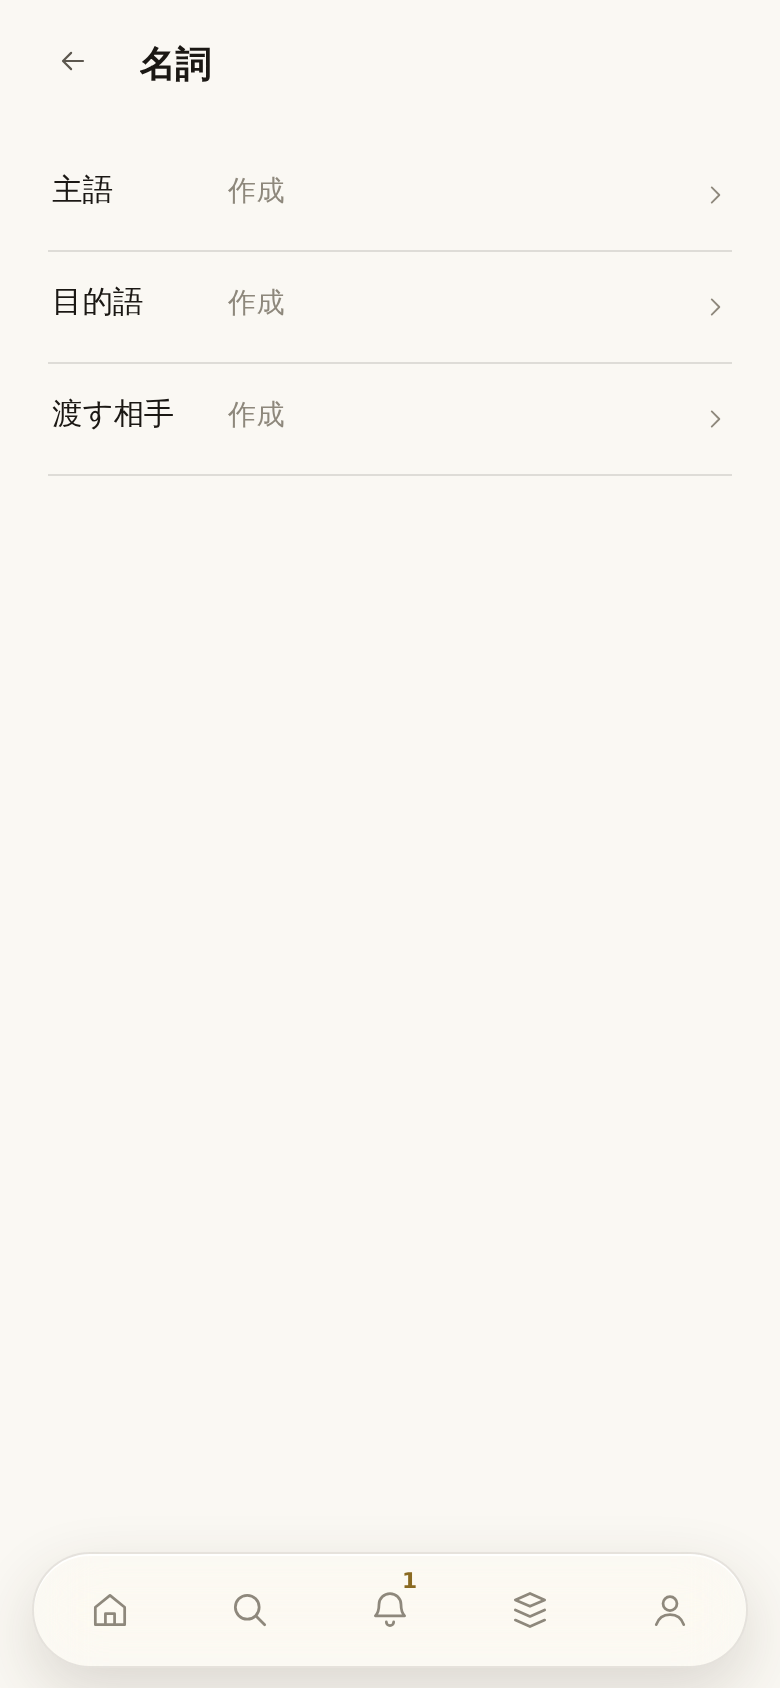
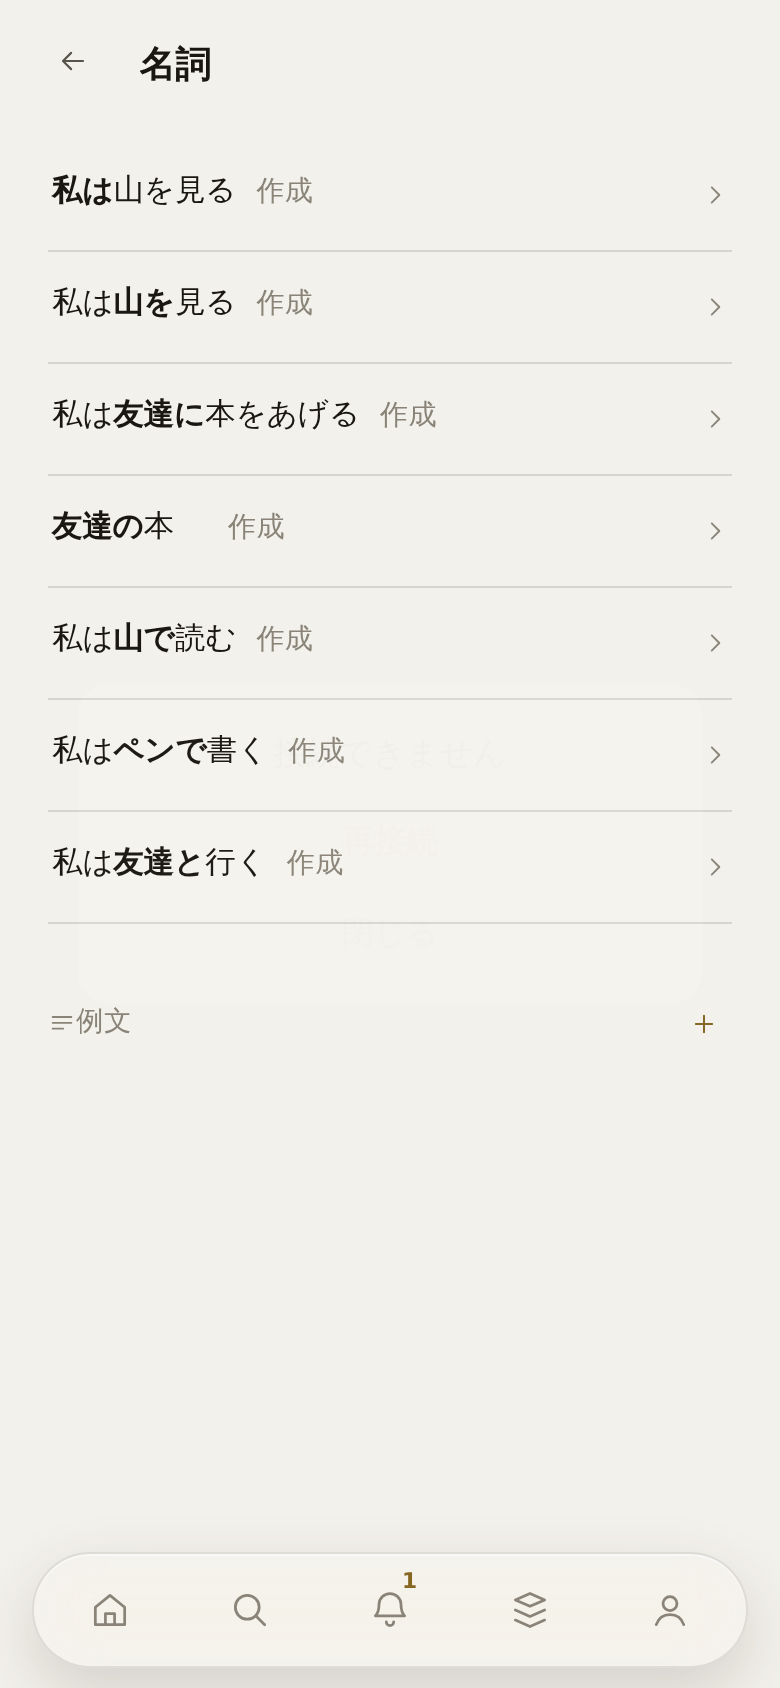
格が七つになった ── 所有・場所・道具・共同
「主語・目的語・渡す相手 に加えて 所有（〜の）・場所（〜で／に）・道具（〜で）・
共同（〜と）」 オーナー決定 2026-09-07。

最初の三つは語順が決められたもの。あとの四つは語順には決して決められない。
所有がそれを証している ── 持ち主は名詞句の中の語なので、文をどう並べても
「どの名詞がどの名詞のものか」は言えない。

助詞の章の枠を三つから七つに。GCASE は役割の名前をそのまま値にする（主語は
NOMINATIVE ではなく SUBJECT）ので、morphology の CASE_ROLE に行を足す必要は
ない ── 知らない値はその名の役割として読まれる。

名詞の章の行は例文のまま（「友達の本」「私は山で読む」）。文法用語は一つも
出てこない。

エンジン: 名詞句の中の部品も、その言語がその部品に印を持っていれば印を着けて
出る。持たない言語は板の並びだけで並ぶ。

grammar-engine-check: 七つの印が着くこと、所有だけは句の中で着くこと、
どちら側に立つかは名詞句の板が決めること、印を持たない言語で裸のまま並ぶこと、
読む側でも七つの役割が返ること。所有の印を落とす版を戻して赤くなるのを見た。

保存されるもの: 助詞の枠が 3 → 7。docs/CHANGELOG.md 2026-09-07。

Claude-Session: https://claude.ai/code/session_01BmhjpHm8VreY8ovbQ3unLG

diff --git a/www/grammar-engine/translate.js b/www/grammar-engine/translate.js
@@ -496,8 +496,8 @@
      list is what somebody meant. A meaning this language has no word for is a
      gap here exactly as it is for a head -- it stays as the meaning, and the
      gap is the door to making that word. */
-  function modWords(model, v, gaps, depth){
-    var out=[], list, i, found;
+  function modWords(model, v, gaps, depth, part){
+    var out=[], list, i, found, cv, marked;
     /* HOW DEEP IN is read here as well as passed in, and that is not belt and
        braces: a caller that forgot the argument made `depth < CLAUSE_DEEP`
        compare undefined, which is false, and every relative clause was
@@ -517,8 +517,18 @@
         continue;
       }
       found=lexFind(model, list[i]);
-      if(found.length) out.push(String(found[0].lemma||''));
-      else { gaps.push(String(list[i])); out.push(String(list[i])); }
+      if(!found.length){ gaps.push(String(list[i])); out.push(String(list[i])); continue; }
+      /* A PART OF A PHRASE MAY CARRY THIS LANGUAGE'S MARK FOR IT. 「所有（〜の）」
+         is a mark on the possessor exactly as 「〜が」 is one on the subject,
+         and it is asked for by the same function -- caseFor() -- so a language
+         that writes one writes it here and a language that does not is
+         arranged by its noun-phrase board alone. Nothing else in a phrase has
+         a mark today; asking for all of them costs one lookup and means the
+         day 「どんな」 gets one, it is already written. */
+      cv=part? caseFor(model, part) : null;
+      if(cv===null){ out.push(String(found[0].lemma||'')); continue; }
+      marked={}; marked.CASE=cv;
+      out.push(api.morphology.inflect(model, found[0], marked).surface);
     }
     return out;
   }
@@ -533,16 +543,16 @@
     if(order.length){
       for(i=0;i<order.length;i++){ part=order[i]; said[part]=1;
         if(part==='NOUN') out.push(headSurface);
-        else out=out.concat(modWords(model, mods[part], gaps, depth));
+        else out=out.concat(modWords(model, mods[part], gaps, depth, part));
       }
       if(!said.NOUN) out.push(headSurface);
-      for(i=0;i<NP_PARTS.length;i++) if(!said[NP_PARTS[i]]) out=out.concat(modWords(model, mods[NP_PARTS[i]], gaps, depth));
+      for(i=0;i<NP_PARTS.length;i++) if(!said[NP_PARTS[i]]) out=out.concat(modWords(model, mods[NP_PARTS[i]], gaps, depth, NP_PARTS[i]));
       return out;
     }
-    out=(positionOf(model,'ADJECTIVE')==='before')? modWords(model, mods.ADJECTIVE, gaps, depth) : [];
+    out=(positionOf(model,'ADJECTIVE')==='before')? modWords(model, mods.ADJECTIVE, gaps, depth, 'ADJECTIVE') : [];
     out.push(headSurface);
-    if(positionOf(model,'ADJECTIVE')!=='before') out=out.concat(modWords(model, mods.ADJECTIVE, gaps, depth));
-    for(i=0;i<NP_PARTS.length;i++) if(NP_PARTS[i]!=='ADJECTIVE') out=out.concat(modWords(model, mods[NP_PARTS[i]], gaps, depth));
+    if(positionOf(model,'ADJECTIVE')!=='before') out=out.concat(modWords(model, mods.ADJECTIVE, gaps, depth, 'ADJECTIVE'));
+    for(i=0;i<NP_PARTS.length;i++) if(NP_PARTS[i]!=='ADJECTIVE') out=out.concat(modWords(model, mods[NP_PARTS[i]], gaps, depth, NP_PARTS[i]));
     return out;
   }
 

diff --git a/www/phases.js b/www/phases.js
@@ -283,7 +283,7 @@ var STAGES=[
      pressed a row at the foot -- 「助詞は最初から出せ」 OWNER 2026-09-01, so
      it is a stage like the rest. A language with no particles leaves it empty,
      which is what an unanswered stage already is everywhere else. */
-  {id:'part',  slots:['subj','obj','rec'], pos:'part'},
+  {id:'part',  slots:['subj','obj','rec','poss','loc','inst','com'], pos:'part'},
   {id:'when',  slots:['now','before','after','today','tomorrow','yesterday'], pos:'x'},
   /* The calendar, and its slots come from two numbers the way counting's come
      from the base. www/cal.js says why there is no arithmetic of anybody's
@@ -355,11 +355,23 @@ function chapSlotsHTML(chap){
    and nothing new is stored anywhere. gInfl() in www/grammar.js is what turns
    the word somebody made here into something the engine reads.
 
-   Three, and not the eight morphology.js knows: these are the ones WORD ORDER
-   would otherwise decide, and a mark is what takes a word out of that queue.
-   Where a thing IS and where it goes are the 場所 stage's adpositions and
-   already have somewhere to live -- two places saying the same thing is the
-   one shape this repository is most often bitten by. */
+   SEVEN NOW, AND NOT THREE. 「格 ── 主語・目的語・渡す相手 に加えて 所有（〜の）・
+   場所（〜で／に）・道具（〜で）・共同（〜と）」 OWNER 2026-09-07. The first
+   three are the ones WORD ORDER would otherwise decide; the four beside them
+   are the ones it never could, and a language that marks them had nowhere to
+   write them down. 「所有」 is the one that shows why: a possessor is a word
+   inside a noun phrase, so no arrangement of a sentence can say it.
+
+   THE PLACE MARK AND THE PLACE WORDS ARE NOT THE SAME THING. `loc` is a mark
+   ON the noun -- 山で, `house-LOC`, the third way §7 names -- and the 場所
+   chapter's `in` / `on` / `under` are separate WORDS standing beside it. A
+   language may have either, or both, and until today it could only have the
+   words: docs/BACKLOG.md carried exactly this hole and this is it filled.
+
+   Adding four is adding four slots. Nothing anybody made moves, and a
+   language that has answered the first three still has answered them -- the
+   count under 助詞 goes from three to seven because there are four more
+   questions, not because anything was lost. */
 /* A copy with its slots filled in, and a copy is the point: STAGES is one
    array shared by every call, so a stage edited in place stays edited. */
 function stWith(p, slots){

diff --git a/www/grammar.js b/www/grammar.js
@@ -255,7 +255,19 @@ function gRules(){
    are: `form` is the particle's SPELLING, read from the dictionary now. A
    stored copy would be the spelling as it was on the day it was saved, and
    would go quietly wrong the moment somebody redrew or renamed that word. */
-var GCASE={subj:'SUBJECT', obj:'OBJECT', rec:'RECIPIENT'};
+/* WHAT EACH MARK MEANS, and it is the ROLE it gives rather than the name a
+   grammar book would give the case. `subj` is SUBJECT and not NOMINATIVE
+   because that is what somebody making a language said: this word is the one
+   doing it. morphology.js's CASE_ROLE turns the traditional names into these
+   same roles, and takes a value it does not know as the role it names -- so
+   the two roads arrive at one answer and this table needs no row there.
+
+   Seven. The first three are what a word order could have decided; the four
+   after them are what it never could. POSSESSOR is the one that shows why:
+   it is a word inside a noun phrase, and no arrangement of a sentence says
+   which noun owns which. */
+var GCASE={subj:'SUBJECT', obj:'OBJECT', rec:'RECIPIENT',
+           poss:'POSSESSOR', loc:'PLACE', inst:'INSTRUMENT', com:'COMPANION'};
 function gInfl(){
   var e=LinguaGrammarEngine, out=[], p=(typeof stBy==='function')? stBy('part') : null, k, w, f;
   if(!p) return out;

diff --git a/www/i18n/ru.js b/www/i18n/ru.js
@@ -600,6 +600,14 @@ defLang('ru', (function(){
       "gram.eg.subj"       : "<b>Я</b> вижу гору",
       "gram.eg.obj"        : "Я вижу <b>гору</b>",
       "gram.eg.rec"        : "Я даю книгу <b>другу</b>",
+      "stg.part.poss"      : "чей",
+      "stg.part.loc"       : "где",
+      "stg.part.inst"      : "чем",
+      "stg.part.com"       : "вместе с",
+      "gram.eg.poss"       : "книга <b>моего друга</b>",
+      "gram.eg.loc"        : "я читаю <b>на горе</b>",
+      "gram.eg.inst"       : "я пишу <b>ручкой</b>",
+      "gram.eg.com"        : "я иду <b>с другом</b>",
       "stg.polite.t"       : "Вежливость",
       "stg.polite.d"       : "Как язык меняется в вежливости",
       "stg.where.t"        : "Место",

diff --git a/www/i18n/ko.js b/www/i18n/ko.js
@@ -775,6 +775,14 @@ defLang('ko', (function(){
       "gram.eg.subj"     : "<b>내가</b> 산을 본다",
       "gram.eg.obj"      : "나는 <b>산을</b> 본다",
       "gram.eg.rec"      : "나는 <b>친구에게</b> 책을 준다",
+      "stg.part.poss"    : "누구의",
+      "stg.part.loc"     : "어디",
+      "stg.part.inst"    : "무엇으로",
+      "stg.part.com"     : "함께",
+      "gram.eg.poss"     : "<b>친구의</b> 책",
+      "gram.eg.loc"      : "나는 <b>산에서</b> 읽는다",
+      "gram.eg.inst"     : "나는 <b>펜으로</b> 쓴다",
+      "gram.eg.com"      : "나는 <b>친구와</b> 간다",
       "stg.polite.t"     : "높임",
       "stg.polite.d"     : "공손할 때 말이 어떻게 달라지는지",
       "stg.where.t"      : "자리",

diff --git a/www/i18n/de.js b/www/i18n/de.js
@@ -584,6 +584,14 @@ defLang('de', (function(){
       "gram.eg.subj"     : "<b>Ich</b> sehe den Berg",
       "gram.eg.obj"      : "Ich sehe <b>den Berg</b>",
       "gram.eg.rec"      : "Ich gebe <b>meinem Freund</b> ein Buch",
+      "stg.part.poss"    : "wessen",
+      "stg.part.loc"     : "wo",
+      "stg.part.inst"    : "womit",
+      "stg.part.com"     : "zusammen mit",
+      "gram.eg.poss"     : "das Buch <b>meines Freundes</b>",
+      "gram.eg.loc"      : "ich lese <b>auf dem Berg</b>",
+      "gram.eg.inst"     : "ich schreibe <b>mit einem Stift</b>",
+      "gram.eg.com"      : "ich gehe <b>mit meinem Freund</b>",
       "stg.polite.t"     : "Höflichkeit",
       "stg.polite.d"     : "Wie sich die Sprache in Höflichkeit ändert",
       "stg.where.t"      : "Ort",

diff --git a/www/i18n/en.js b/www/i18n/en.js
@@ -500,6 +500,14 @@ defLang('en', (function(){
       'gram.eg.subj'     : '<b>I</b> see the mountain',
       'gram.eg.obj'      : 'I see <b>the mountain</b>',
       'gram.eg.rec'      : 'I give a book <b>to my friend</b>',
+      'stg.part.poss'    : 'whose',
+      'stg.part.loc'     : 'where',
+      'stg.part.inst'    : 'with what',
+      'stg.part.com'     : 'together with',
+      'gram.eg.poss'     : '<b>my friend’s</b> book',
+      'gram.eg.loc'      : 'I read <b>on the mountain</b>',
+      'gram.eg.inst'     : 'I write <b>with a pen</b>',
+      'gram.eg.com'      : 'I go <b>with my friend</b>',
       'stg.polite.t'     : 'Politeness',
       'stg.polite.d'     : 'How the language changes when it is careful',
       'stg.where.t'      : 'Place',

diff --git a/www/i18n/fr.js b/www/i18n/fr.js
@@ -644,6 +644,14 @@ defLang('fr', (function(){
       "gram.eg.subj"     : "<b>Je</b> vois la montagne",
       "gram.eg.obj"      : "Je vois <b>la montagne</b>",
       "gram.eg.rec"      : "Je donne un livre <b>à mon ami</b>",
+      "stg.part.poss"    : "à qui",
+      "stg.part.loc"     : "où",
+      "stg.part.inst"    : "avec quoi",
+      "stg.part.com"     : "avec qui",
+      "gram.eg.poss"     : "le livre <b>de mon ami</b>",
+      "gram.eg.loc"      : "je lis <b>sur la montagne</b>",
+      "gram.eg.inst"     : "j’écris <b>avec un stylo</b>",
+      "gram.eg.com"      : "je vais <b>avec mon ami</b>",
       "stg.polite.t"     : "Politesse",
       "stg.polite.d"     : "Comment la langue change en politesse",
       "stg.where.t"      : "Lieu",

diff --git a/www/i18n/it.js b/www/i18n/it.js
@@ -596,6 +596,14 @@ defLang('it', (function(){
       "gram.eg.subj"     : "<b>Io</b> vedo la montagna",
       "gram.eg.obj"      : "Vedo <b>la montagna</b>",
       "gram.eg.rec"      : "Do un libro <b>al mio amico</b>",
+      "stg.part.poss"    : "di chi",
+      "stg.part.loc"     : "dove",
+      "stg.part.inst"    : "con che cosa",
+      "stg.part.com"     : "insieme a",
+      "gram.eg.poss"     : "il libro <b>del mio amico</b>",
+      "gram.eg.loc"      : "leggo <b>sulla montagna</b>",
+      "gram.eg.inst"     : "scrivo <b>con una penna</b>",
+      "gram.eg.com"      : "vado <b>con il mio amico</b>",
       "stg.polite.t"     : "Cortesia",
       "stg.polite.d"     : "Come cambia la lingua nella cortesia",
       "stg.where.t"      : "Luogo",

diff --git a/www/i18n/es.js b/www/i18n/es.js
@@ -556,6 +556,14 @@ defLang('es', (function(){
       "gram.eg.subj"     : "<b>Yo</b> veo la montaña",
       "gram.eg.obj"      : "Veo <b>la montaña</b>",
       "gram.eg.rec"      : "Doy un libro <b>a mi amigo</b>",
+      "stg.part.poss"    : "de quién",
+      "stg.part.loc"     : "dónde",
+      "stg.part.inst"    : "con qué",
+      "stg.part.com"     : "junto con",
+      "gram.eg.poss"     : "el libro <b>de mi amigo</b>",
+      "gram.eg.loc"      : "leo <b>en la montaña</b>",
+      "gram.eg.inst"     : "escribo <b>con un bolígrafo</b>",
+      "gram.eg.com"      : "voy <b>con mi amigo</b>",
       "stg.polite.t"     : "Cortesía",
       "stg.polite.d"     : "Cómo cambia la lengua al ser cortés",
       "stg.where.t"      : "Lugar",

diff --git a/www/i18n/ja.js b/www/i18n/ja.js
@@ -512,6 +512,14 @@ defLang('ja', (function(){
       'gram.eg.subj'     : '<b>私は</b>山を見る',
       'gram.eg.obj'      : '私は<b>山を</b>見る',
       'gram.eg.rec'      : '私は<b>友達に</b>本をあげる',
+      'stg.part.poss'    : '持ち主',
+      'stg.part.loc'     : '場所',
+      'stg.part.inst'    : '道具',
+      'stg.part.com'     : '一緒に',
+      'gram.eg.poss'     : '<b>友達の</b>本',
+      'gram.eg.loc'      : '私は<b>山で</b>読む',
+      'gram.eg.inst'     : '私は<b>ペンで</b>書く',
+      'gram.eg.com'      : '私は<b>友達と</b>行く',
       'stg.polite.t'     : '敬語',
       'stg.polite.d'     : 'ていねいに言うときの形',
       'stg.where.t'      : '場所',

diff --git a/www/i18n/pt.js b/www/i18n/pt.js
@@ -603,6 +603,14 @@ defLang('pt', (function(){
       "gram.eg.subj"     : "<b>Eu</b> vejo a montanha",
       "gram.eg.obj"      : "Vejo <b>a montanha</b>",
       "gram.eg.rec"      : "Dou um livro <b>ao meu amigo</b>",
+      "stg.part.poss"    : "de quem",
+      "stg.part.loc"     : "onde",
+      "stg.part.inst"    : "com quê",
+      "stg.part.com"     : "junto com",
+      "gram.eg.poss"     : "o livro <b>do meu amigo</b>",
+      "gram.eg.loc"      : "leio <b>na montanha</b>",
+      "gram.eg.inst"     : "escrevo <b>com uma caneta</b>",
+      "gram.eg.com"      : "vou <b>com o meu amigo</b>",
       "stg.polite.t"     : "Cortesia",
       "stg.polite.d"     : "Como a língua muda ao ser cortês",
       "stg.where.t"      : "Lugar",
